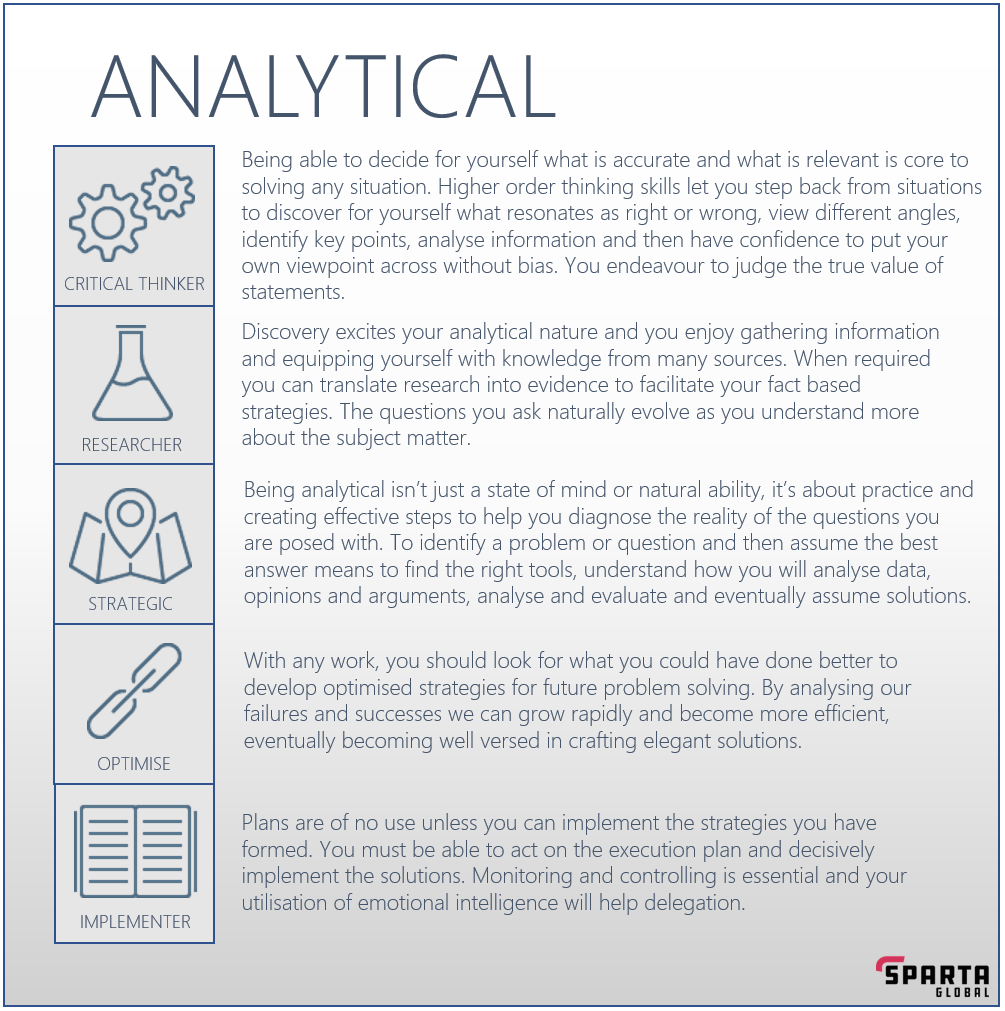
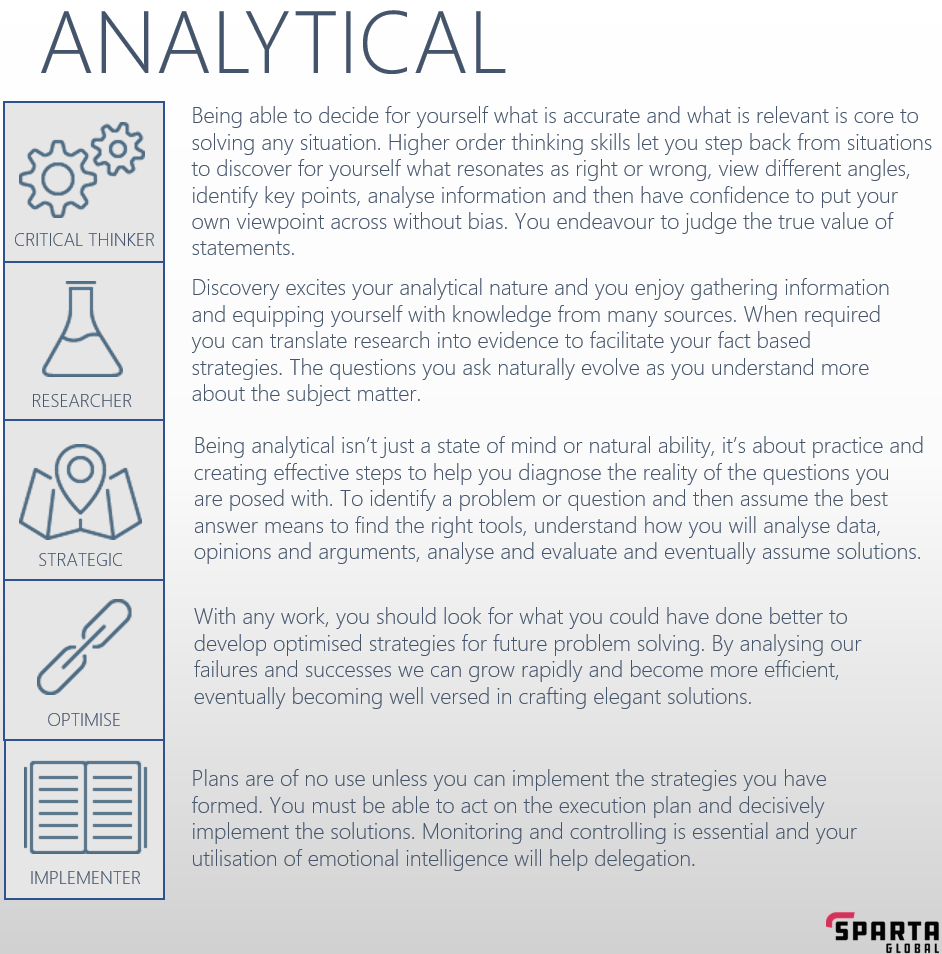
Changed competency images size and updated view

Changed region(s): [[0.0, 0.0, 1.0, 1.0]]

diff --git a/src/main/resources/templates/fragments/competencies.html b/src/main/resources/templates/fragments/competencies.html
@@ -8,34 +8,37 @@
     </head>
     <body>
     <div th:insert="/fragments/header :: header"></div>
-        <div class="container text-center bg-color-main">
+        <div class="text-center bg-color-main" id="competency-container">
             <a class="" data-bs-toggle="modal" href="#analytical" role="button">
-                <img th:src="@{/images/Analytical.png}" height="100" width="100" class="competency" alt="">
+                <img th:src="@{/images/Analytical.png}" height="100" width="100" class="competency-sm mt-5" alt="">
             </a>
             <a class="" data-bs-toggle="modal" href="#determined" role="button">
-                <img th:src="@{/images/Determined.png}" height="100" width="100" class="competency" alt="">
+                <img th:src="@{/images/Determined.png}" height="100" width="100" class="competency-sm mt-5" alt="">
             </a>
             <a class="" data-bs-toggle="modal" href="#imaginative" role="button">
-                <img th:src="@{/images/Imaginative.png}" height="100" width="100" class="competency" alt="">
+                <img th:src="@{/images/Imaginative.png}" height="100" width="100" class="competency-sm mt-5" alt="">
             </a>
             <a class="" data-bs-toggle="modal" href="#independent" role="button">
-                <img th:src="@{/images/Independent.png}" height="100" width="100" class="competency" alt="">
+                <img th:src="@{/images/Independent.png}" height="100" width="100" class="competency-sm mt-5" alt="">
             </a>
             <a class="" data-bs-toggle="modal" href="#professional" role="button">
-                <img th:src="@{/images/Professional.png}" height="100" width="100" class="competency" alt="">
+                <img th:src="@{/images/Professional.png}" height="100" width="100" class="competency-sm mt-5" alt="">
             </a>
             <a class="" data-bs-toggle="modal" href="#studios" role="button">
-                <img th:src="@{/images/Studious.png}" height="100" width="100" class="competency" alt="">
+                <img th:src="@{/images/Studious.png}" height="100" width="100" class="competency-sm mt-5" alt="">
             </a>
         </div>
 
         <!-- Analytical -->
         <div class="modal fade" id="analytical" aria-hidden="true" aria-labelledby="..." tabindex="-1">
             <div class="modal-dialog modal-fullscreen">
-                <div class="modal-content">
+                <div class="modal-content bg-color-main justify-content-center">
+                    <div class="modal-header text-white">
+                        <button type="button" class="btn-close btn-close-white btn-lg" data-bs-dismiss="modal" aria-label="close"></button>
+                    </div>
                     <img th:src="@{/images/Analytical.png}" alt="">
                     <div class="modal-footer">
-                        <button class="btn btn-primary" data-bs-target="#determined" data-bs-toggle="modal" data-bs-dismiss="modal">Next: #determined</button>
+                        <button class="btn btn-primary btn-lg" data-bs-target="#determined" data-bs-toggle="modal" data-bs-dismiss="modal">Next: Determined</button>
                     </div>
                 </div>
             </div>
@@ -44,10 +47,13 @@
         <!-- Determined -->
         <div class="modal fade" id="determined" aria-hidden="true" aria-labelledby="..." tabindex="-1">
             <div class="modal-dialog modal-fullscreen">
-                <div class="modal-content">
+                <div class="modal-content bg-color-main justify-content-center">
+                    <div class="modal-header">
+                        <button type="button" class="btn-close btn-close-white btn-lg" data-bs-dismiss="modal" aria-label="close"></button>
+                    </div>
                     <img th:src="@{/images/Determined.png}" alt="">
                     <div class="modal-footer">
-                        <button class="btn btn-primary" data-bs-target="#imaginative" data-bs-toggle="modal" data-bs-dismiss="modal">Next: #imaginative</button>
+                        <button class="btn btn-primary btn-lg" data-bs-target="#imaginative" data-bs-toggle="modal" data-bs-dismiss="modal">Next: Imaginative</button>
                     </div>
                 </div>
             </div>
@@ -56,10 +62,13 @@
         <!-- Imaginative -->
         <div class="modal fade" id="imaginative" aria-hidden="true" aria-labelledby="..." tabindex="-1">
             <div class="modal-dialog modal-fullscreen">
-                <div class="modal-content">
+                <div class="modal-content bg-color-main justify-content-center">
+                    <div class="modal-header">
+                        <button type="button" class="btn-close btn-close-white btn-lg" data-bs-dismiss="modal" aria-label="close"></button>
+                    </div>
                     <img th:src="@{/images/Imaginative.png}" alt="">
                     <div class="modal-footer">
-                        <button class="btn btn-primary" data-bs-target="#independent" data-bs-toggle="modal" data-bs-dismiss="modal">Next: #independent</button>
+                        <button class="btn btn-primary btn-lg" data-bs-target="#independent" data-bs-toggle="modal" data-bs-dismiss="modal">Next: Independent</button>
                     </div>
                 </div>
             </div>
@@ -68,10 +77,13 @@
         <!-- Independent -->
         <div class="modal fade" id="independent" aria-hidden="true" aria-labelledby="..." tabindex="-1">
             <div class="modal-dialog modal-fullscreen">
-                <div class="modal-content">
+                <div class="modal-content bg-color-main justify-content-center">
+                    <div class="modal-header">
+                        <button type="button" class="btn-close btn-close-white btn-lg" data-bs-dismiss="modal" aria-label="close"></button>
+                    </div>
                     <img th:src="@{/images/Independent.png}" alt="">
                     <div class="modal-footer">
-                        <button class="btn btn-primary" data-bs-target="#prodessional" data-bs-toggle="modal" data-bs-dismiss="modal">Next: #professional</button>
+                        <button class="btn btn-primary btn-lg" data-bs-target="#professional" data-bs-toggle="modal" data-bs-dismiss="modal">Next: Professional</button>
                     </div>
                 </div>
             </div>
@@ -80,28 +92,36 @@
         <!-- Professional -->
         <div class="modal fade" id="professional" aria-hidden="true" aria-labelledby="..." tabindex="-1">
             <div class="modal-dialog modal-fullscreen">
-                <div class="modal-content">
+                <div class="modal-content bg-color-main justify-content-center">
+                    <div class="modal-header">
+                        <button type="button" class="btn-close btn-close-white btn-lg" data-bs-dismiss="modal" aria-label="close"></button>
+                    </div>
                     <img th:src="@{/images/Professional.png}" alt="">
                     <div class="modal-footer">
-                        <button class="btn btn-primary" data-bs-target="#studios" data-bs-toggle="modal" data-bs-dismiss="modal">Next: #studios</button>
+                        <button class="btn btn-primary btn-lg" data-bs-target="#studious" data-bs-toggle="modal" data-bs-dismiss="modal">Next: Studios</button>
                     </div>
                 </div>
             </div>
         </div>
 
         <!-- Studios -->
-        <div class="modal fade" id="studios" aria-hidden="true" aria-labelledby="..." tabindex="-1">
+        <div class="modal fade" id="studious" aria-hidden="true" aria-labelledby="..." tabindex="-1">
             <div class="modal-dialog modal-fullscreen">
-                <div class="modal-content">
-                    <img th:src="@{/images/Studios.png}" alt="">
+                <div class="modal-content bg-color-main justify-content-center">
+                    <div class="modal-header">
+                        <button type="button" class="btn-close btn-close-white btn-lg" data-bs-dismiss="modal" aria-label="close"></button>
+                    </div>
+                    <img th:src="@{/images/Studious.png}" alt="">
                     <div class="modal-footer">
-                        <a class="btn btn-primary" href="#analytical" data-bs-toggle="modal" role="button">Open #analytical</a>
+                        <a class="btn btn-primary btn-lg" href="#analytical" data-bs-toggle="modal" role="button" data-bs-dismiss="modal">Next: Analytical</a>
                     </div>
                 </div>
             </div>
         </div>
-<!--    <footer>-->
-<!--        <div th:insert="/fragments/footer :: footer"></div>-->
-<!--    </footer>-->
+    <footer>
+        <div th:insert="/fragments/footer :: footer"></div>
+    </footer>
+    <script th:src="@{webjars/popper.js/2.5.4/umd/popper.min.js}"></script>
+    <script th:src="@{webjars/bootstrap/5.0.0-beta2/js/bootstrap.min.js}"></script>
     </body>
 </html>

diff --git a/src/main/resources/static/css/style.css b/src/main/resources/static/css/style.css
@@ -165,6 +165,15 @@ section#main-content {
     background-color: white;
 }
 
+img.competency-sm {
+    height: 700px;
+    width: 90vw;
+}
+
+div.modal-content {
+    /*margin-top: 50%;*/
+}
+
 /*a {*/
 /*    color: #34beef;*/
 /*}*/
